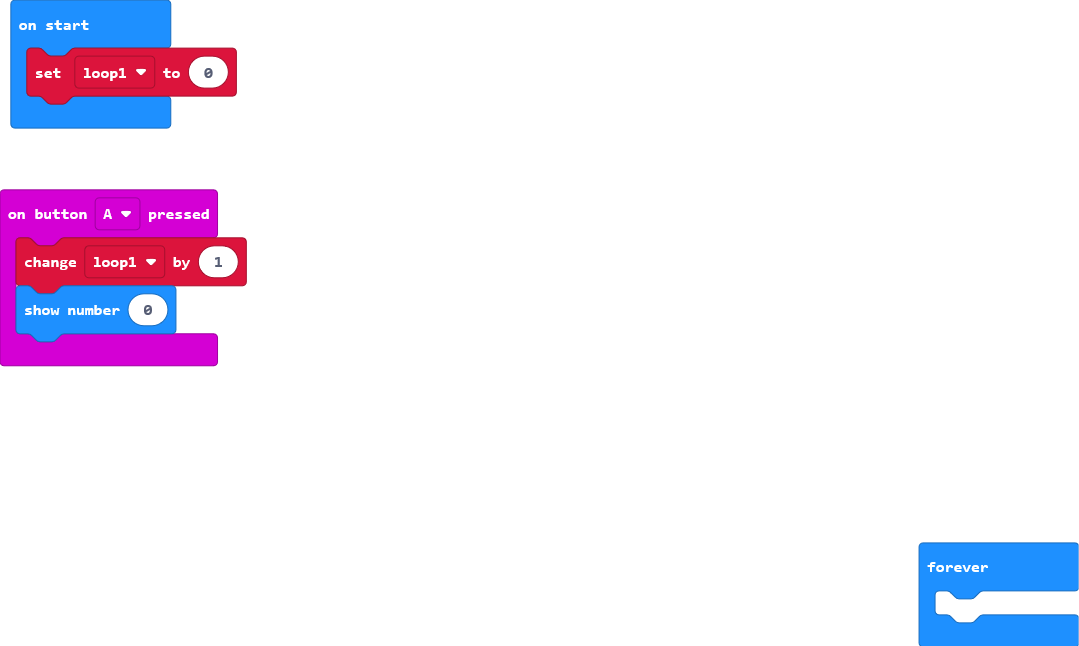
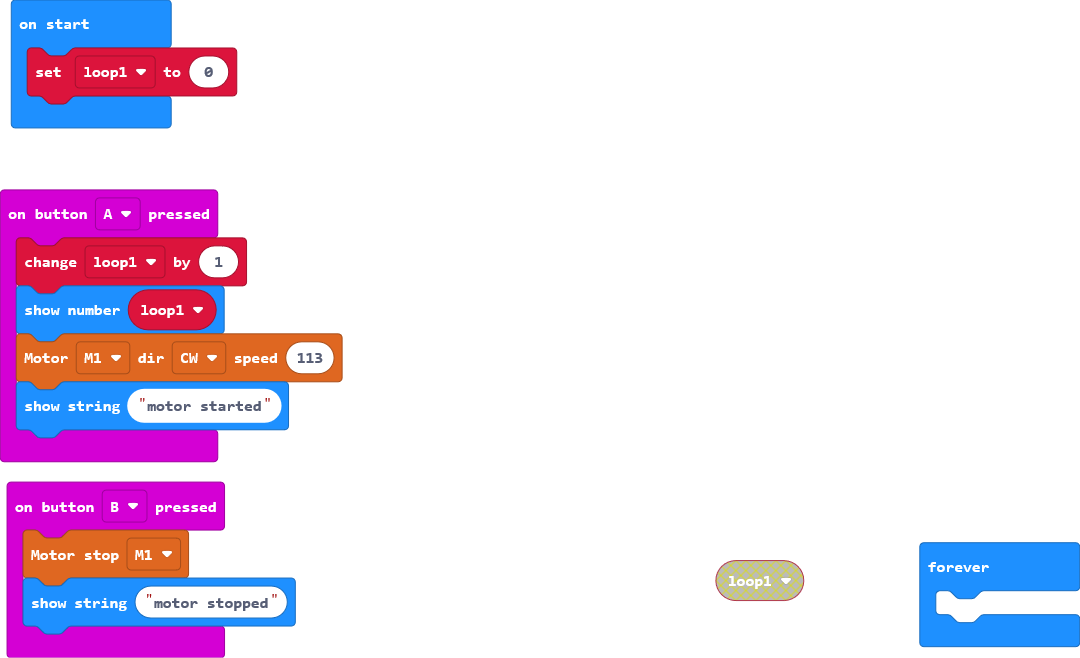
Update pxt.json, main.blocks, main.ts

diff --git a/main.ts b/main.ts
@@ -1,8 +1,15 @@
 input.onButtonPressed(Button.A, function () {
     loop1 += 1
-    basic.showNumber(0)
+    basic.showNumber(loop1)
+    motor.MotorRun(motor.Motors.M1, motor.Dir.CW, 113)
+    basic.showString("motor started")
+})
+input.onButtonPressed(Button.B, function () {
+    motor.motorStop(motor.Motors.M1)
+    basic.showString("motor stopped")
 })
 let loop1 = 0
+loop1 = 0
 basic.forever(function () {
 	
 })
